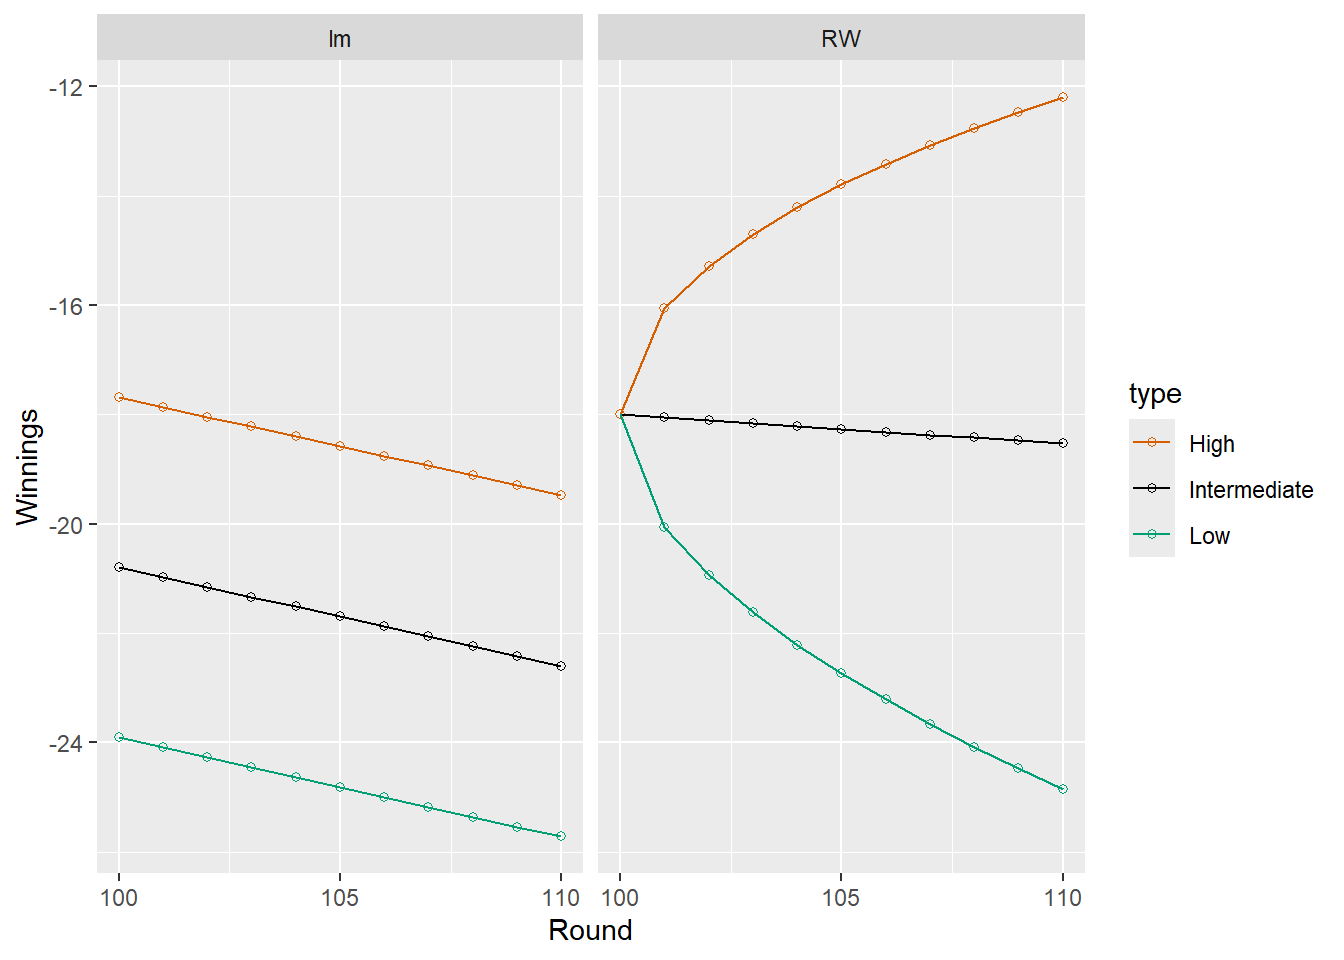
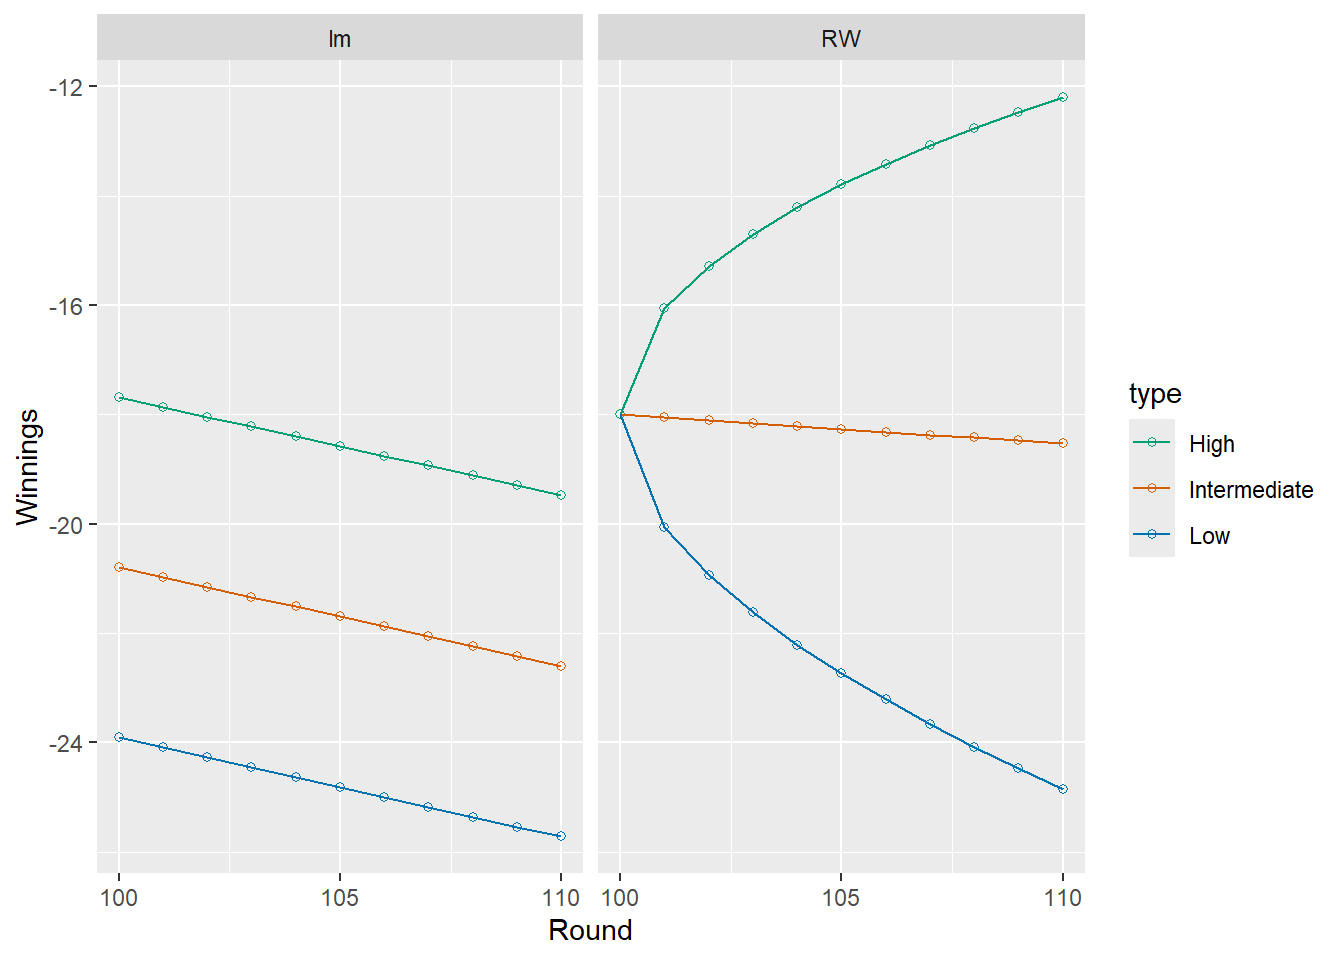
Edit 8.1

diff --git a/docs/module-08/notes1.html b/docs/module-08/notes1.html
@@ -341,6 +341,10 @@ window.Quarto = {
     <a class="dropdown-item" href="../module-08/notes1.html">
  <span class="dropdown-text">Module 8.1: Intro to Time Series</span></a>
   </li>  
+        <li>
+    <a class="dropdown-item" href="../module-08/notes2.html">
+ <span class="dropdown-text">Module 8.2: Autoregressive Models and Autocorrelation Functions</span></a>
+  </li>  
     </ul>
   </li>
 </ul>
@@ -399,9 +403,10 @@ window.Quarto = {
 </div>
 </div>
 <p>The golden egg of time series is forecasting: predicting future values from the past. As such, we would like to develop statistical models for describing how the present value <span class="math inline">\(Y_T\)</span> of a time series depends on various predictors (yeah, we’ve done lots of that type of stuff), but more uniquely to time series, how the value of <span class="math inline">\(Y_T\)</span> depends on past values of <span class="math inline">\(Y_t\)</span> for <span class="math inline">\(t &lt; T\)</span>. In fact, this latter is really the fundamental difference between times series and the regression models considered thus far in the course.</p>
-<p>Time series modeling requires a bit of background in random variables, but nothing too far beyond Math 37 knowledge. There are really just three facts to recall:</p>
+<p>Time series modeling requires a bit of background in random variables, but nothing too far beyond intro to stats knowledge. There are really just four facts to recall:</p>
 <ul>
-<li>Expected value is the weighted average of the possible values of a random variable</li>
+<li>Expected value is the weighted mean of the possible values of a random variable.</li>
+<li>Variance is the standard deviation squared.</li>
 <li>Expected value distributes across sums of random variables</li>
 <li>Variance distributes across sums of random variables, <strong>but</strong> only if those random variables are independent.</li>
 </ul>
@@ -431,7 +436,7 @@ Y_t = Y_{t-1}+ \varepsilon_t
 </div>
 </div>
 </div>
-<p>Notice that your net winnings go steadily down throughout the night. In fact, one can show that there is a very small probability (less than 5%) of being ahead after 100 rounds.</p>
+<p>Notice that your net winnings go steadily down throughout the night. In fact, one can show<a href="#fn3" class="footnote-ref" id="fnref3" role="doc-noteref"><sup>3</sup></a> that there is a very small probability (less than 5%) of being ahead after 100 rounds.</p>
 <p>Let’s compare the above plot, which tracks your cumulative winnings, with a plot of the actual results from each round: <span class="math display">\[
 \varepsilon_t = \Delta y_t
 \]</span></p>
@@ -447,7 +452,11 @@ Y_t = Y_{t-1}+ \varepsilon_t
 </div>
 </div>
 </div>
-<p>This is called the change<a href="#fn3" class="footnote-ref" id="fnref3" role="doc-noteref"><sup>3</sup></a> process for the time series. For roulette, the results just jump randomly between 1 and -1 with no distinguishable pattern whereas the cumulative winnings themselves showed a downward trend. This is the fundamental difference between a random walk (<span class="math inline">\(y_t\)</span> = the cumulative winnings) and its corresponding change process (<span class="math inline">\(\varepsilon_t\)</span> = the results of individual rounds).</p>
+<p>This is called the change<a href="#fn4" class="footnote-ref" id="fnref4" role="doc-noteref"><sup>4</sup></a> process for the time series. For roulette, the results just jump randomly between 1 and -1 with no distinguishable pattern whereas the cumulative winnings themselves showed a downward trend. This is the fundamental difference between a random walk (<span class="math inline">\(y_t\)</span> = the cumulative winnings) and its corresponding change process (<span class="math inline">\(\varepsilon_t\)</span> = the results of individual rounds) and its an important partnership to keep in mind as you study time series:</p>
+<ul>
+<li>The change process of a time series can be obtained by differencing.</li>
+<li>A time series can be obtained from a change process by summing.</li>
+</ul>
 </section>
 <section id="forecasting" class="level2">
 <h2 class="anchored" data-anchor-id="forecasting">Forecasting</h2>
@@ -500,8 +509,13 @@ F-statistic:  1150 on 1 and 98 DF,  p-value: &lt; 2.2e-16</code></pre>
 </div>
 </div>
 </div>
-<p>and in the long run, might provide some good predictions, but in the short run it is going to be shit because it is trying to capture the overall trend in all observations and not weighting the recent points more heavily. For example, the line predicts our net winnings will be less than -20 at round 101 which is impossible given we are at -18 after round 100 due to a recent string of good fortune and we can only lose $1 per round. Thinking of this process as a random walk provides a much better, but still roughly linear way of approximating future values.</p>
-<p>To see how, we recall two facts stated in the introduction about distributing expected value and variance. With these in mind, suppose that the current value of our winnings is <span class="math inline">\(y_T\)</span> and we wish to predict the value of our winnings after <span class="math inline">\(n\)</span> additional rounds. Since our net winnings in the next <span class="math inline">\(n\)</span> rounds is a sum of <span class="math inline">\(n\)</span> iid random variables with mean <span class="math inline">\(\mu = -1/19\)</span>, this means that the expected value of our winnings after <span class="math inline">\(n\)</span> more rounds will be <span class="math display">\[
+<p>and in the long run, might provide some good predictions, but in the short run it is going to be shit because it is trying to capture the overall trend in all observations and not weighing the recent points more heavily. For example, the line predicts our net winnings will be less than -20 at round 101 which is impossible given we are at -18 after round 100 due to a recent string of good fortune and we can only lose $1 per round. Thinking of this process as a random walk provides a much better, but still roughly linear way of approximating future values.</p>
+<p>To see how, recall the two facts stated in the introduction about distributing expected value and variance across sums of independent random variable.</p>
+<ul>
+<li>Expected value distributes across sums of random variables</li>
+<li>Variance distributes across sums of random variables, <strong>but</strong> only if those random variables are independent.</li>
+</ul>
+<p>With these in mind, suppose that the current value of our winnings is <span class="math inline">\(y_T\)</span> and we wish to predict the value of our winnings after <span class="math inline">\(n\)</span> additional rounds. Since our net winnings in the next <span class="math inline">\(n\)</span> rounds is a sum of <span class="math inline">\(n\)</span> iid random variables with mean <span class="math inline">\(\mu = -1/19\)</span>, this means that the expected value of our winnings after <span class="math inline">\(n\)</span> more rounds will be <span class="math display">\[
 y_T-n/19.
 \]</span> Furthermore, the variance of a single round result is <span class="math inline">\(\sigma^2 \approx 1\)</span> as shown by the following calculation:</p>
 <div class="cell">
@@ -512,7 +526,7 @@ y_T-n/19.
 </div>
 </div>
 <p>so the variance of our additional winnings after <span class="math inline">\(n\)</span> rounds will be <span class="math inline">\(n\sigma^2  \approx n\)</span>. We can use this to form not just predictions, but prediction intervals via the “<span class="math inline">\(\pm 2*SD\)</span>” heuristic: we will predict that our new winnings after <span class="math inline">\(n\)</span> additional rounds will be in the interval <span class="math display">\[
-y_T -n/19 \pm 2\sqrt{n}
+(y_T -n/19) \pm 2\sqrt{n}
 \]</span> with 95% probability (or we could use some other factor times the SD if we wanted a different prediction probability).</p>
 <p>In forecasting, the lower endpoint, midpoint, and upper endpoint of the 95% prediction interval are referred to respectively as the “Low-Intermediate-High” projections. The plot below compares the random walk projections with those obtained from linear regression for the next 10 rounds.</p>
 <div class="cell">
@@ -562,7 +576,7 @@ y_T -n/19 \pm 2\sqrt{n}
 <span id="cb11-44"><a href="#cb11-44" aria-hidden="true" tabindex="-1"></a>  <span class="fu">geom_line</span>()<span class="sc">+</span></span>
 <span id="cb11-45"><a href="#cb11-45" aria-hidden="true" tabindex="-1"></a>  <span class="fu">facet_grid</span>(.<span class="sc">~</span>model)<span class="sc">+</span></span>
 <span id="cb11-46"><a href="#cb11-46" aria-hidden="true" tabindex="-1"></a>  <span class="fu">ylab</span>(<span class="st">"Winnings"</span>)<span class="sc">+</span></span>
-<span id="cb11-47"><a href="#cb11-47" aria-hidden="true" tabindex="-1"></a>  <span class="fu">scale_color_manual</span>(<span class="at">values=</span>cb_palette[<span class="fu">c</span>(<span class="dv">7</span>,<span class="dv">1</span>,<span class="dv">4</span>)])<span class="sc">+</span></span>
+<span id="cb11-47"><a href="#cb11-47" aria-hidden="true" tabindex="-1"></a>  <span class="fu">scale_color_manual</span>(<span class="at">values=</span>cb_palette[<span class="fu">c</span>(<span class="dv">4</span>,<span class="dv">7</span>,<span class="dv">6</span>)])<span class="sc">+</span></span>
 <span id="cb11-48"><a href="#cb11-48" aria-hidden="true" tabindex="-1"></a>  <span class="fu">scale_x_continuous</span>(<span class="at">breaks=</span><span class="fu">c</span>(<span class="dv">100</span>,<span class="dv">105</span>,<span class="dv">110</span>))</span></code></pre></div><button title="Copy to Clipboard" class="code-copy-button"><i class="bi"></i></button></div>
 <div class="cell-output-display">
 <div>
@@ -576,7 +590,7 @@ y_T -n/19 \pm 2\sqrt{n}
 </section>
 <section id="is-tuition-a-random-walk" class="level2">
 <h2 class="anchored" data-anchor-id="is-tuition-a-random-walk">Is tuition a random walk?</h2>
-<p>The example from the last section was unrealistic for most real world forecasting problems because we knew the exact distribution of the noise<a href="#fn4" class="footnote-ref" id="fnref4" role="doc-noteref"><sup>4</sup></a> <span class="math inline">\(\varepsilon_t\)</span>. For most time series, we don’t know this information, but instead have to estimate the mean and variance of the noise from past data. The tuition data, for example, looks like it has an upward linear trend which is what we would expect from a random walk model with positive drift, but how can we use this observation to make forecasts about what will happen in the next ten years?</p>
+<p>The example from the last section was unrealistic for most real world forecasting problems because we knew the exact distribution of the noise <span class="math inline">\(\varepsilon_t\)</span>. For most time series, we don’t know this information, but instead have to estimate the mean and variance of the noise from past data. The tuition data, for example, looks like it has an upward linear trend which is what we would expect from a random walk model with positive drift, but how can we use this observation to make forecasts about what will happen in the next ten years?</p>
 <p>The key is to look at sample statistics for the year-to-year change scores of tuition. The “diff” command can be used to calculate them. The NA is needed because there is no difference from the first point. This is important to remember in working with change scores: in a sample of size <span class="math inline">\(n\)</span>, there are only <span class="math inline">\(n-1\)</span> changes.</p>
 <div class="cell">
 <div class="code-copy-outer-scaffold"><div class="sourceCode cell-code" id="cb12"><pre class="sourceCode r code-with-copy"><code class="sourceCode r"><span id="cb12-1"><a href="#cb12-1" aria-hidden="true" tabindex="-1"></a>tuition<span class="sc">$</span>Private.Diff<span class="ot">=</span></span>
@@ -595,9 +609,10 @@ y_T -n/19 \pm 2\sqrt{n}
 </div>
 <p>After the first few years (we could remove these if you’re worried), this essentially looks like a sequence of iid random variables which makes it reasonable to use a random walk to model tuition prices. To do so, we need to compute the sample mean and sample SD for the differences which will take the place of <span class="math inline">\(\mu =-1/19\)</span> and <span class="math inline">\(\sigma \approx 1\)</span> in the last example</p>
 <div class="cell">
-<div class="code-copy-outer-scaffold"><div class="sourceCode cell-code" id="cb13"><pre class="sourceCode r code-with-copy"><code class="sourceCode r"><span id="cb13-1"><a href="#cb13-1" aria-hidden="true" tabindex="-1"></a>cbar<span class="ot">=</span><span class="fu">mean</span>(tuition<span class="sc">$</span>Private.Diff,<span class="at">na.rm=</span><span class="cn">TRUE</span>)</span>
-<span id="cb13-2"><a href="#cb13-2" aria-hidden="true" tabindex="-1"></a>c_sd<span class="ot">=</span><span class="fu">sd</span>(tuition<span class="sc">$</span>Private.Diff,<span class="at">na.rm=</span><span class="cn">TRUE</span>)</span>
-<span id="cb13-3"><a href="#cb13-3" aria-hidden="true" tabindex="-1"></a><span class="fu">cat</span>(<span class="st">"Mean="</span>,cbar,<span class="st">"</span><span class="sc">\n</span><span class="st">Std Dev ="</span>, c_sd)</span></code></pre></div><button title="Copy to Clipboard" class="code-copy-button"><i class="bi"></i></button></div>
+<div class="code-copy-outer-scaffold"><div class="sourceCode cell-code" id="cb13"><pre class="sourceCode r code-with-copy"><code class="sourceCode r"><span id="cb13-1"><a href="#cb13-1" aria-hidden="true" tabindex="-1"></a><span class="co"># Using c for change scores instead of epsilon because its easier to type. </span></span>
+<span id="cb13-2"><a href="#cb13-2" aria-hidden="true" tabindex="-1"></a>cbar<span class="ot">=</span><span class="fu">mean</span>(tuition<span class="sc">$</span>Private.Diff,<span class="at">na.rm=</span><span class="cn">TRUE</span>)</span>
+<span id="cb13-3"><a href="#cb13-3" aria-hidden="true" tabindex="-1"></a>c_sd<span class="ot">=</span><span class="fu">sd</span>(tuition<span class="sc">$</span>Private.Diff,<span class="at">na.rm=</span><span class="cn">TRUE</span>)</span>
+<span id="cb13-4"><a href="#cb13-4" aria-hidden="true" tabindex="-1"></a><span class="fu">cat</span>(<span class="st">"Mean="</span>,cbar,<span class="st">"</span><span class="sc">\n</span><span class="st">Std Dev ="</span>, c_sd)</span></code></pre></div><button title="Copy to Clipboard" class="code-copy-button"><i class="bi"></i></button></div>
 <div class="cell-output cell-output-stdout">
 <pre><code>Mean= 0.04595745 
 Std Dev = 0.04014428</code></pre>
@@ -845,10 +860,10 @@ y_T+ t \mu \pm 2 \sigma\sqrt{t}.
 <div id="quarto-appendix" class="default"><section id="footnotes" class="footnotes footnotes-end-of-document" role="doc-endnotes"><h2 class="anchored quarto-appendix-heading">Footnotes</h2>
 
 <ol>
-<li id="fn1"><p>just to fuck with you and make sure the casino wins money. That’s how the real world works kids. European roulette is more fair because there is only one green slot.<a href="#fnref1" class="footnote-back" role="doc-backlink">↩</a></p></li>
+<li id="fn1"><p>just to fuck with you and make sure the casino wins money. That’s how we do it in America. European roulette is a little more fair because there is only one green slot. It will still screw you over but it won’t be as obvious.<a href="#fnref1" class="footnote-back" role="doc-backlink">↩</a></p></li>
 <li id="fn2"><p>All of which are bad ideas.<a href="#fnref2" class="footnote-back" role="doc-backlink">↩</a></p></li>
-<li id="fn3"><p>Or innovation or first difference<a href="#fnref3" class="footnote-back" role="doc-backlink">↩</a></p></li>
-<li id="fn4"><p>Sometimes you’ll see the notation <span class="math inline">\(c_t\)</span> instead of <span class="math inline">\(\varepsilon_t\)</span> to remind you that these are “change scores”; we’ll use that in R because c is easier to type than epsilon.<a href="#fnref4" class="footnote-back" role="doc-backlink">↩</a></p></li>
+<li id="fn3"><p>By counting paths which lead to positive gains and using binomial probabilities or the Central Limit Theorem to approximate.<a href="#fnref3" class="footnote-back" role="doc-backlink">↩</a></p></li>
+<li id="fn4"><p>Or innovation or first difference<a href="#fnref4" class="footnote-back" role="doc-backlink">↩</a></p></li>
 </ol>
 </section></div></main> <!-- /main -->
 <script id="quarto-html-after-body" type="application/javascript">

diff --git a/docs/modules.html b/docs/modules.html
@@ -338,6 +338,10 @@ window.Quarto = {
     <a class="dropdown-item" href="./module-08/notes1.html">
  <span class="dropdown-text">Module 8.1: Intro to Time Series</span></a>
   </li>  
+        <li>
+    <a class="dropdown-item" href="./module-08/notes2.html">
+ <span class="dropdown-text">Module 8.2: Autoregressive Models and Autocorrelation Functions</span></a>
+  </li>  
     </ul>
   </li>
 </ul>
@@ -1220,7 +1224,7 @@ To describe a basic feedforward neural network mathematically, suppose we have <
 </div>
 </div></a>
 </div>
-<div class="g-col-1" data-index="62" data-listing-file-modified-sort="1794523489913" data-listing-reading-time-sort="18" data-listing-word-count-sort="3410">
+<div class="g-col-1" data-index="62" data-listing-file-modified-sort="1794589812837" data-listing-reading-time-sort="18" data-listing-word-count-sort="3503">
 <a href="./module-08/notes1.html" class="quarto-grid-link">
 <div class="quarto-grid-item card h-100 card-left">
 <div class="card-body post-contents">
@@ -1248,7 +1252,7 @@ Y_t = Y_{t-1} + \varepsilon_t
 </div>
 </div></a>
 </div>
-<div class="g-col-1" data-index="64" data-listing-file-modified-sort="1794522624763" data-listing-reading-time-sort="1" data-listing-word-count-sort="130">
+<div class="g-col-1" data-index="64" data-listing-file-modified-sort="1794588823748" data-listing-reading-time-sort="1" data-listing-word-count-sort="130">
 <a href="./module-08/supplement.html" class="quarto-grid-link">
 <div class="quarto-grid-item card h-100 card-left">
 <div class="card-body post-contents">
